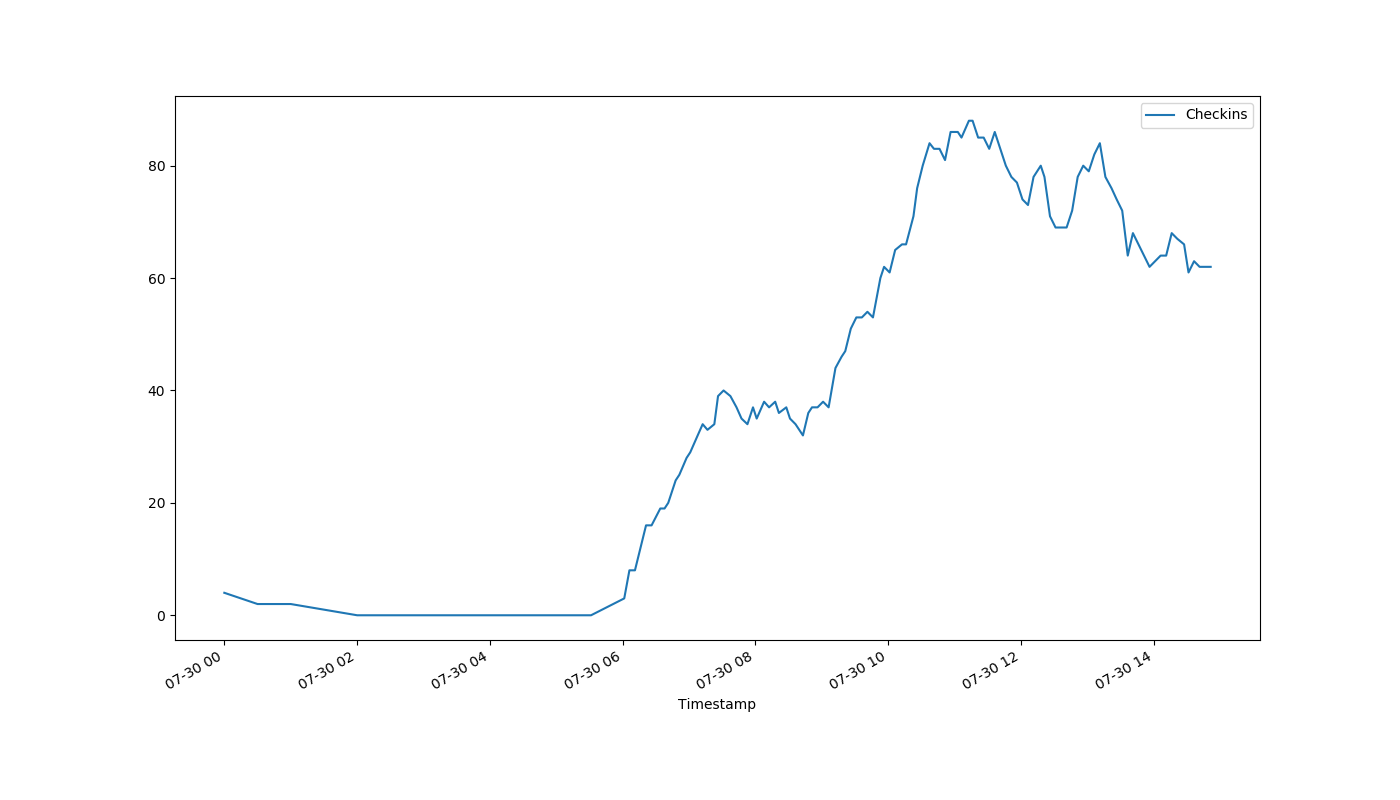
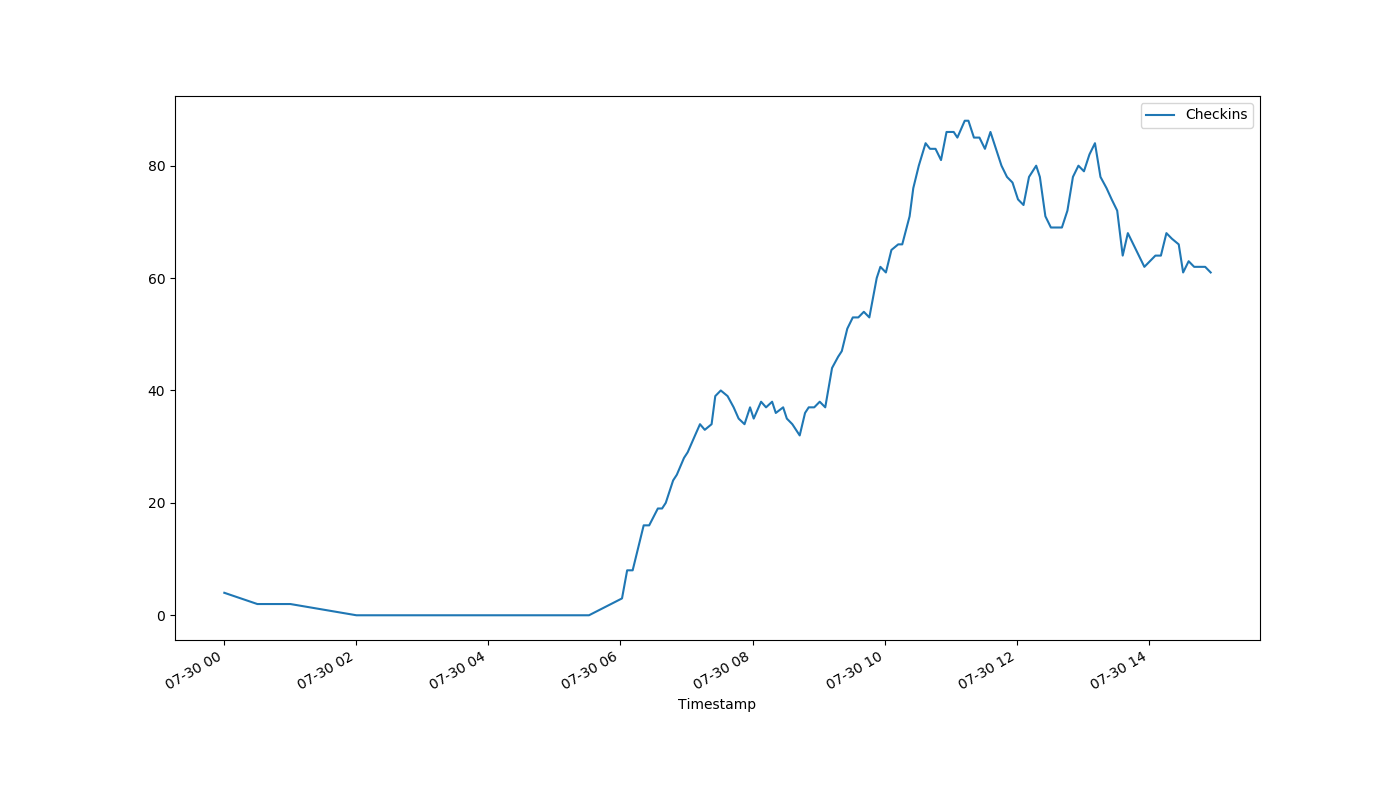
auto-Jul-30-14:58:00

diff --git a/index.html b/index.html
@@ -1,1 +1,1 @@
-<!DOCTYPE html><html><head><meta http-equiv="refresh" content="30"><link rel='stylesheet' href='holmcurrent.css'></head><body><p id='count'>62</p><div id='graph-wrap'><img id='graph' src='holmgraph-Jul-30.png'></div><p id='updated'>Last updated 14:51:17 / 14:51:15</p></body></html>
+<!DOCTYPE html><html><head><meta http-equiv="refresh" content="30"><link rel='stylesheet' href='holmcurrent.css'></head><body><p id='count'>61</p><div id='graph-wrap'><img id='graph' src='holmgraph-Jul-30.png'></div><p id='updated'>Last updated 14:56:17 / 14:56:15</p></body></html>
